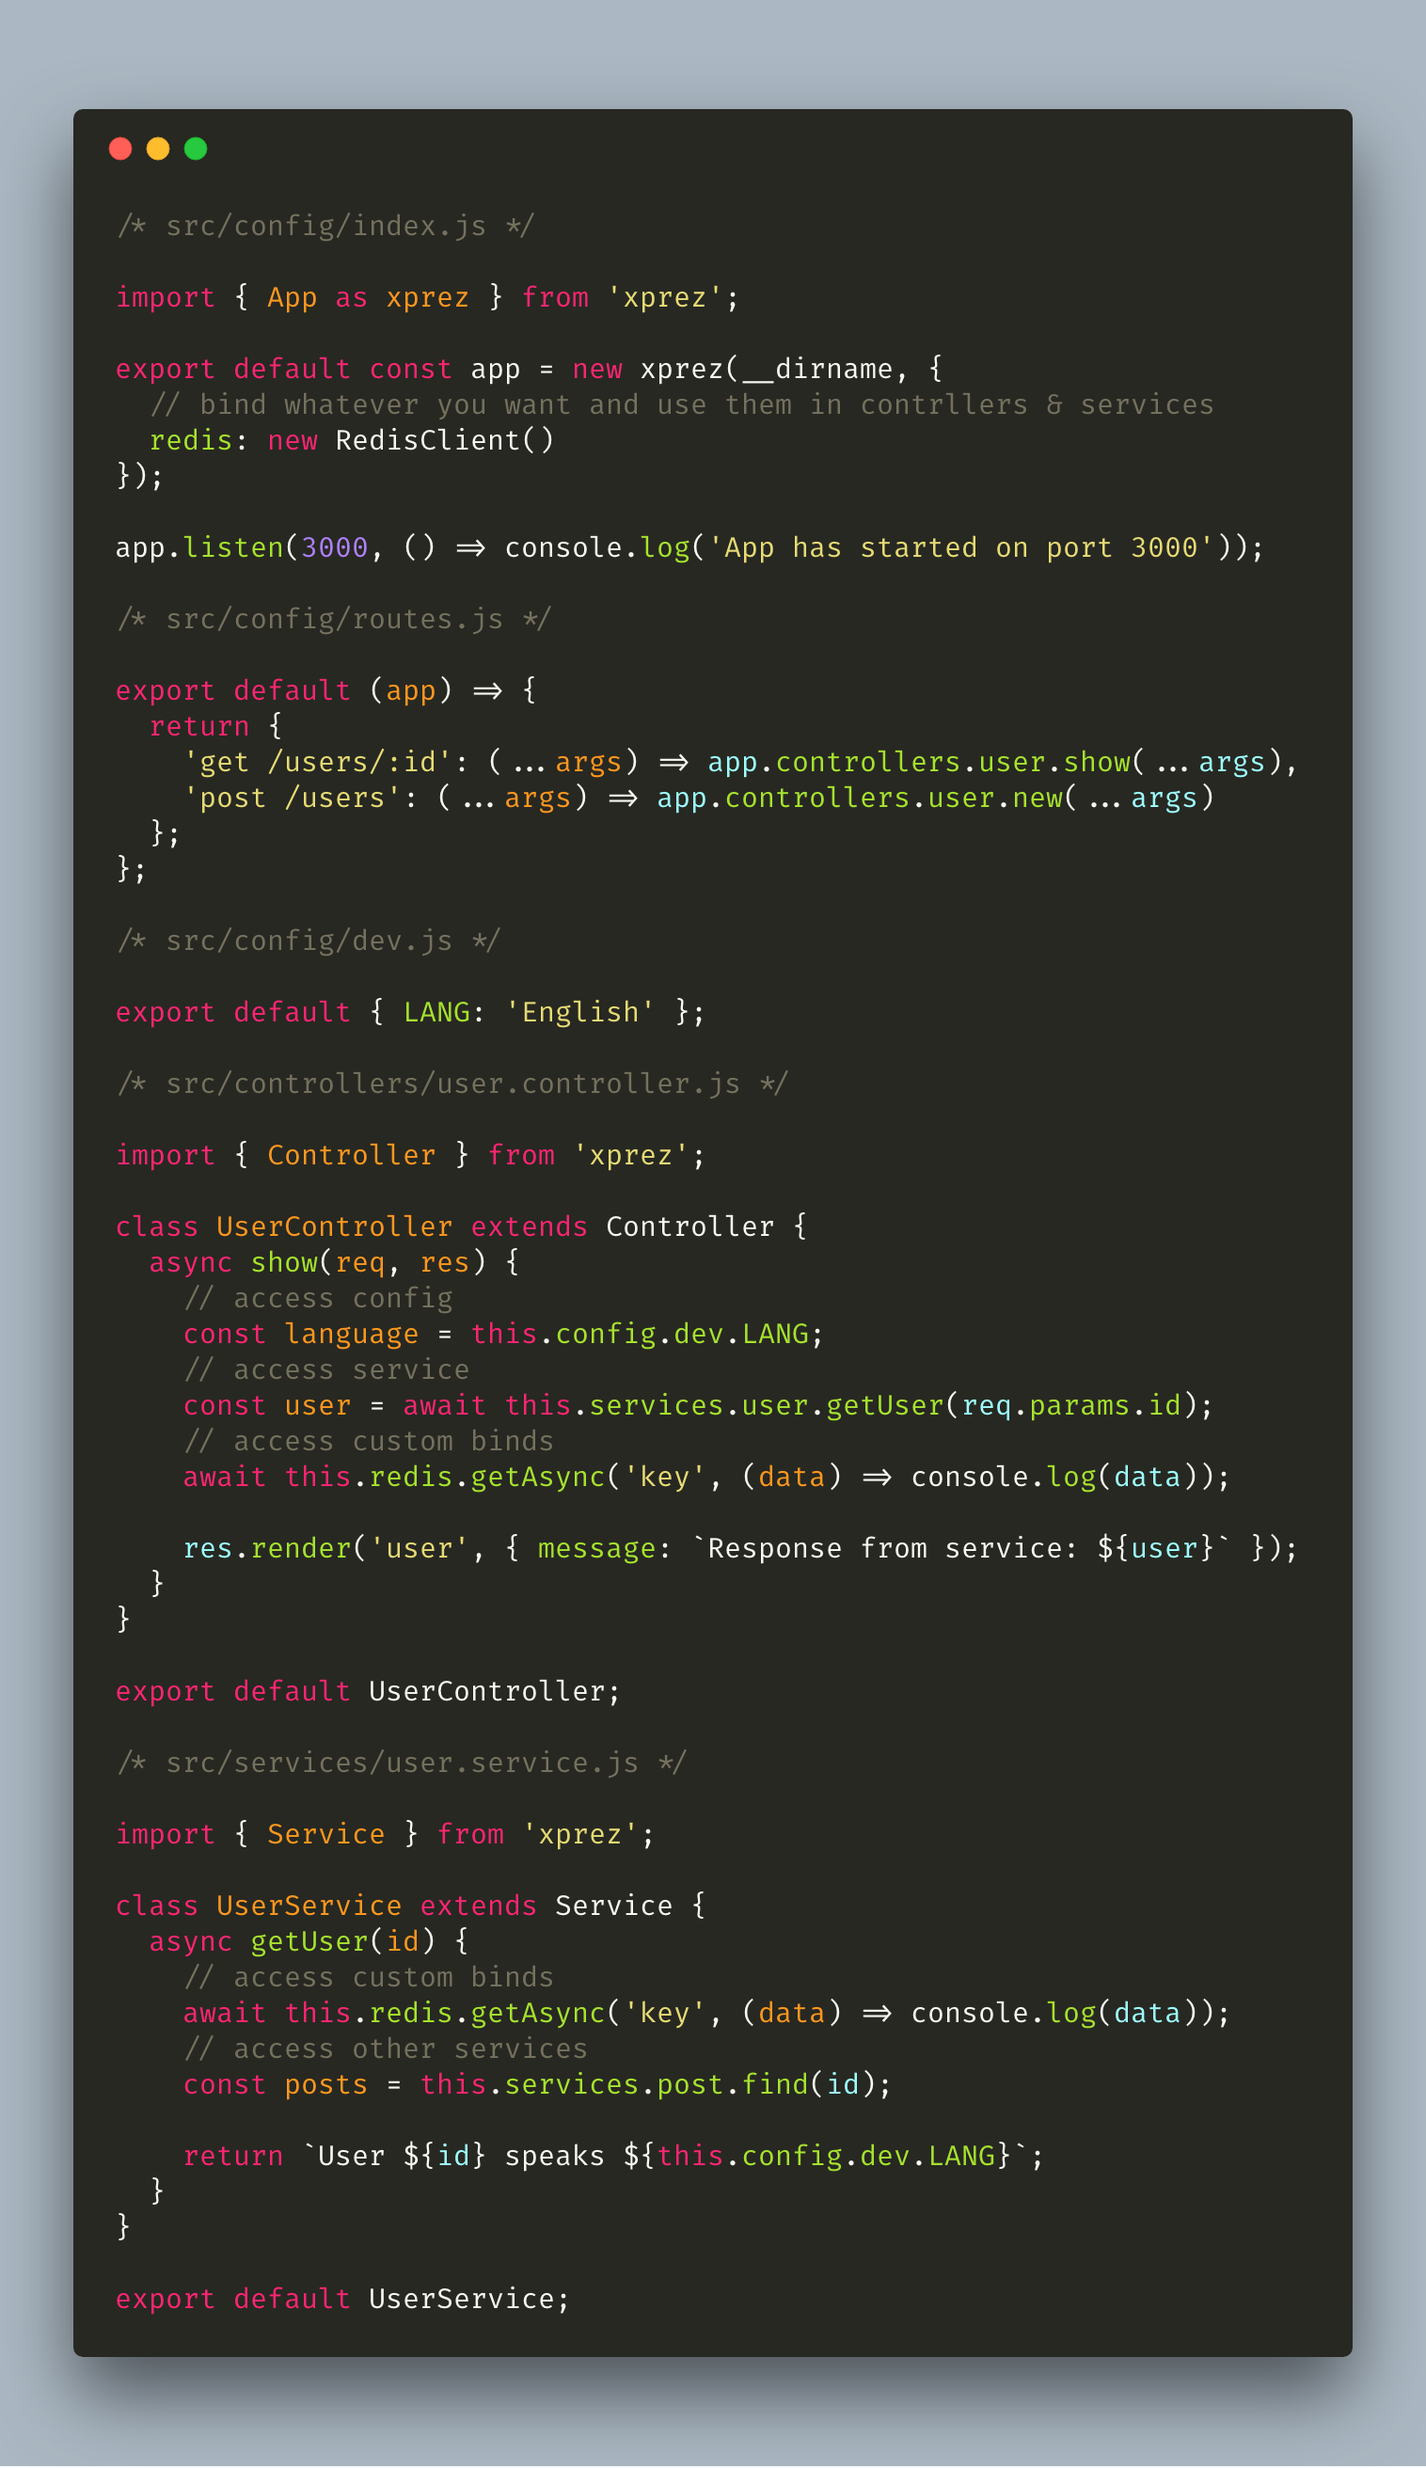
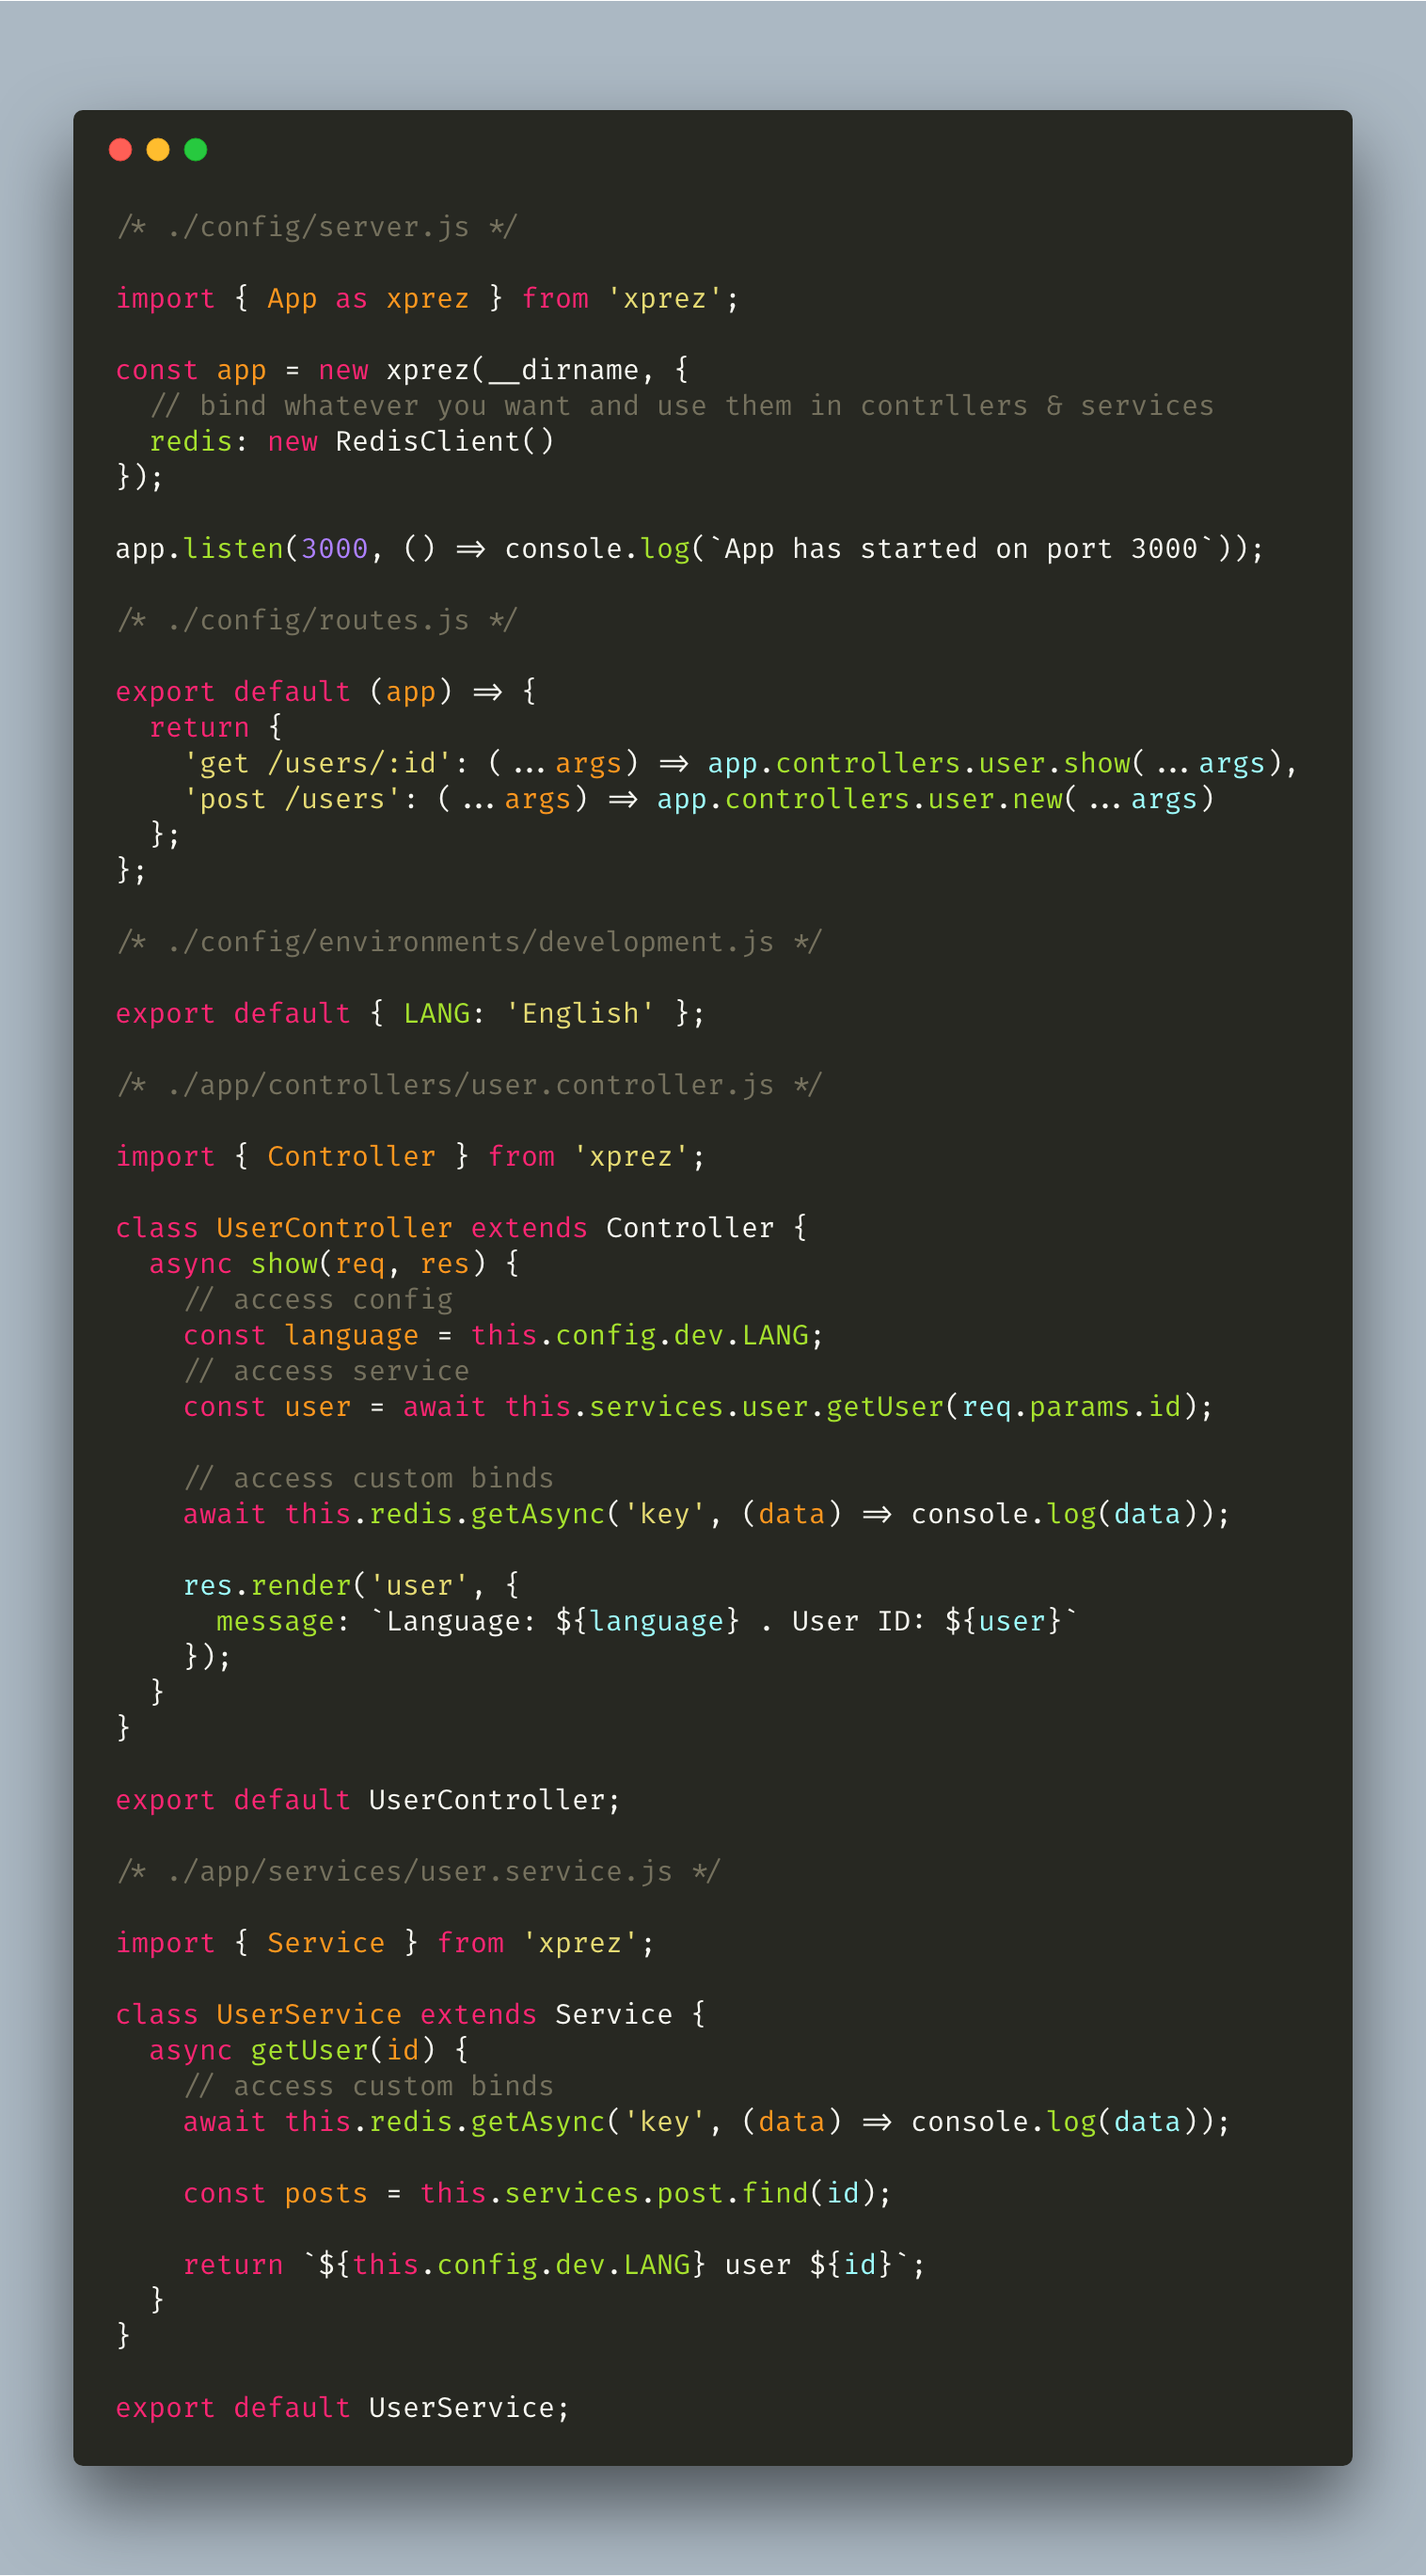
major directory structure changes

diff --git a/lib/loader/index.js b/lib/loader/index.js
@@ -14,11 +14,21 @@ export default (path) => {
   const arr = dir.filter((file) => {
     const name = file.split('.')[0];
 
-    return !name.match(/^(index|routes)$/);
+    return !name.match(/^(server|routes)$/);
   }).map((file) => {
-    const module = require(`${path}/${file}`).default;
 
-    return { name: file.split('.')[0], module };
+    // if loading environment configurations, load the module based
+    // on current environment
+    if (file === 'environments') {
+      const env = process.env.NODE_ENV || 'development';
+      const module = require(`${path}/${file}/${env}`).default;
+
+      return { name: 'config', module };
+    } else {
+      const module = require(`${path}/${file}`).default;
+
+      return { name: file.split('.')[0], module };
+    }
   });
 
   return arr;

diff --git a/lib/application.js b/lib/application.js
@@ -24,11 +24,12 @@ class Application extends Express {
     super();
 
     this.userBindings = binds;
+    this.env = process.env.NODE_ENV || 'development';
 
     const hash = {
       '../config': (this.config = {}),
-      '../services': (this.services = {}),
-      '../controllers': (this.controllers = {})
+      '../app/services': (this.services = {}),
+      '../app/controllers': (this.controllers = {})
     };
 
     Object.keys(hash).forEach((folder, index) => {
@@ -38,7 +39,7 @@ class Application extends Express {
     });
 
     this.set('view engine', 'ejs');
-    this.set('views', path.join(folderPath, '../views'));
+    this.set('views', path.join(folderPath, '../app/views'));
 
     this.use(router(this, folderPath));
   }

diff --git a/bin/index.js b/bin/index.js
@@ -7,11 +7,11 @@ require = require('esm')(module);
 
 const serve = require('./lib/serve').default;
 
-const folderPath = `${process.cwd()}/src/config`;
+const appFile = `${process.cwd()}/config/server`;
 
 program
   .version('1.0.0', '-v, --version')
   .option('s, serve', 'start app server (cwd must be the project root directory with `src/config` inside it)')
   .parse(process.argv);
 
-if (program.serve) serve(folderPath);
+if (program.serve) serve(appFile);

diff --git a/lib/modules/base-class.js b/lib/modules/base-class.js
@@ -12,10 +12,11 @@ export default class BaseClass {
    * @param {object} app Reference to the Express app object
    */
   constructor(app) {
-    const { config, services, userBindings } = app;
+    const { config, services, userBindings, env } = app;
 
-    this.config = config;
+    this.config = config.config;
     this.services = services;
+    this.env = env;
 
     Object.entries(userBindings).forEach(([key, value]) => {
       key = key.toLowerCase();

diff --git a/example/config/server.js b/example/config/server.js
@@ -1,6 +1,6 @@
 'use strict';
 
-import { App as xprez } from '../../..';
+import { App as xprez } from '../..';
 
 const app = new xprez(__dirname, {
   // bind references in this hash
@@ -11,6 +11,3 @@ const app = new xprez(__dirname, {
 const PORT = process.env.PORT || 3000;
 
 app.listen(PORT, () => console.log(`App has started on port ${PORT}`));
-
-// export app to expose it to the command-line runner
-export default app;

diff --git a/example/app/controllers/user.controller.js b/example/app/controllers/user.controller.js
@@ -5,7 +5,7 @@ import { Controller } from '../../..';
 class UserController extends Controller {
   show(req, res) {
     // access config
-    const language = this.config.dev.LANG;
+    const language = this.config.LANG;
     // access service
     const user = this.services.user.getUser(req.params.id);
     // access custom binds

diff --git a/example/config/environments/development.js b/example/config/environments/development.js
@@ -1,0 +1,11 @@
+'use strict';
+
+/**
+ * Xprez will load the configuration based on the current environment automatically.
+ * 
+ * For example, during development environment, using `this.config` in controllers/services
+ * will return `{ LANG: 'English' }` as defined below.
+ */
+export default {
+  LANG: 'English'
+};

diff --git a/example/app/services/user.service.js b/example/app/services/user.service.js
@@ -9,7 +9,7 @@ class UserService extends Service {
     // access other services
     console.log(this.services.post.getPost(id));
 
-    return `User ${id} speaks ${this.config.dev.LANG}.`;
+    return `User ${id} speaks ${this.config.LANG}.`;
   }
 }
 

diff --git a/bin/lib/serve.js b/bin/lib/serve.js
@@ -4,7 +4,7 @@ export default (path) => {
   let message;
 
   try {
-    const server = require(path);
+    require(path);
     
     message = '|  ***   Starting Xprez app......  ***  |';
   } catch (e) {

diff --git a/example/config/environments/production.js b/example/config/environments/production.js
@@ -1,5 +1,5 @@
 'use strict';
 
 export default {
-  LANG: 'English'
+  LANG: 'Spanish'
 };
